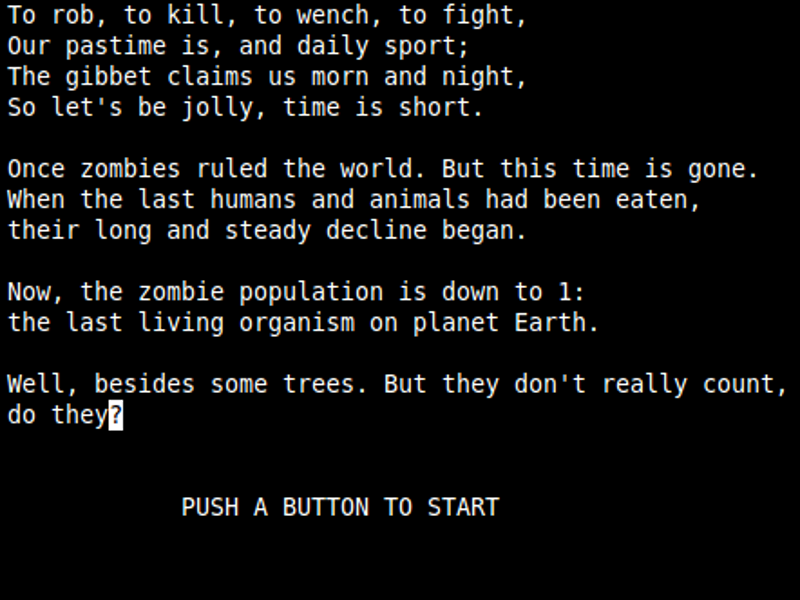
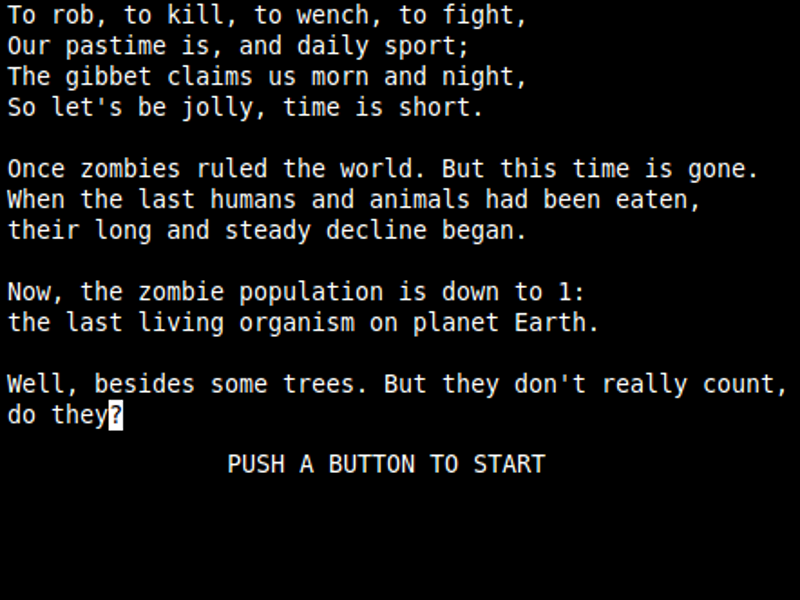
dialog

Changed region(s): [[0.2188, 0.75, 0.6875, 0.87]]

diff --git a/ld22.html b/ld22.html
@@ -42,6 +42,26 @@
 		var stary3;
 		var boom;
 		var gameover;
+		var dia1;
+		var dia2;
+var dia3;
+var dia4;
+var dia5;
+var dia6;
+var dia7;
+var dia8;
+var dia9;
+		var dia10;
+		var dia11;
+		var dia12;
+		var dia13;
+		var dia14;
+	var dia15;
+	var dia16;
+	var dia17;
+
+
+
 
 			function Engine(scene, layer){
 				this.scene = scene;
@@ -68,7 +88,7 @@
 				});
 				stone = this.mystone = this.scene.Sprite("stone.png",{
 					"layer": this.layer,
-					"x": 400, 	//X position of sprite
+					"x": 500, 	//X position of sprite
 					"y": 425, 	//Y position of sprite
 					"w": 150, 	//width of sprite.
 					"h": 150 	//height of sprite.
@@ -250,6 +270,142 @@
 					"w": 800, 	//width of sprite.
 					"h": 600 	//height of sprite.
 				});
+
+				dia1 = this.mydia1 = this.scene.Sprite("dia1.png",{
+					"layer": this.layer,
+					"x": 0, 	//X position of sprite
+					"y": 575, 	//Y position of sprite
+					"w": 800, 	//width of sprite.
+					"h": 25 	//height of sprite.
+				});
+
+				dia2 = this.mydia2 = this.scene.Sprite("dia2.png",{
+					"layer": this.layer,
+					"x": 3150, 	//X position of sprite
+					"y": 500, 	//Y position of sprite
+					"w": 58, 	//width of sprite.
+					"h": 31 	//height of sprite.
+				});
+
+				dia3 = this.mydia3 = this.scene.Sprite("dia3.png",{
+					"layer": this.layer,
+					"x": 3300, 	//X position of sprite
+					"y": 500, 	//Y position of sprite
+					"w": 58, 	//width of sprite.
+					"h": 31 	//height of sprite.
+				});
+
+				dia4 = this.mydia4 = this.scene.Sprite("dia4.png",{
+					"layer": this.layer,
+					"x": 4500, 	//X position of sprite
+					"y": 500, 	//Y position of sprite
+					"w": 58, 	//width of sprite.
+					"h": 31 	//height of sprite.
+				});
+
+				dia5 = this.mydia5 = this.scene.Sprite("dia5.png",{
+					"layer": this.layer,
+					"x": 4700, 	//X position of sprite
+					"y": 500, 	//Y position of sprite
+					"w": 58, 	//width of sprite.
+					"h": 31 	//height of sprite.
+				});
+
+				mine6 = this.mymine6 = this.scene.Sprite("tellermine.png",{
+					"layer": this.layer,
+					"x": 4900, 	//X position of sprite
+					"y": 500, 	//Y position of sprite
+					"w": 58, 	//width of sprite.
+					"h": 31 	//height of sprite.
+				});
+
+				mine7 = this.mymine7 = this.scene.Sprite("tellermine.png",{
+					"layer": this.layer,
+					"x": 7200, 	//X position of sprite
+					"y": 500, 	//Y position of sprite
+					"w": 58, 	//width of sprite.
+					"h": 31 	//height of sprite.
+				});
+
+				mine8 = this.mymine8 = this.scene.Sprite("tellermine.png",{
+					"layer": this.layer,
+					"x": 7260, 	//X position of sprite
+					"y": 500, 	//Y position of sprite
+					"w": 58, 	//width of sprite.
+					"h": 31 	//height of sprite.
+				});
+
+				mine9 = this.mymine9 = this.scene.Sprite("tellermine.png",{
+					"layer": this.layer,
+					"x": 7320, 	//X position of sprite
+					"y": 500, 	//Y position of sprite
+					"w": 58, 	//width of sprite.
+					"h": 31 	//height of sprite.
+				});
+
+				mine2 = this.mymine2 = this.scene.Sprite("tellermine.png",{
+					"layer": this.layer,
+					"x": 3150, 	//X position of sprite
+					"y": 500, 	//Y position of sprite
+					"w": 58, 	//width of sprite.
+					"h": 31 	//height of sprite.
+				});
+
+				mine3 = this.mymine3 = this.scene.Sprite("tellermine.png",{
+					"layer": this.layer,
+					"x": 3300, 	//X position of sprite
+					"y": 500, 	//Y position of sprite
+					"w": 58, 	//width of sprite.
+					"h": 31 	//height of sprite.
+				});
+
+				mine4 = this.mymine4 = this.scene.Sprite("tellermine.png",{
+					"layer": this.layer,
+					"x": 4500, 	//X position of sprite
+					"y": 500, 	//Y position of sprite
+					"w": 58, 	//width of sprite.
+					"h": 31 	//height of sprite.
+				});
+
+				mine5 = this.mymine5 = this.scene.Sprite("tellermine.png",{
+					"layer": this.layer,
+					"x": 4700, 	//X position of sprite
+					"y": 500, 	//Y position of sprite
+					"w": 58, 	//width of sprite.
+					"h": 31 	//height of sprite.
+				});
+
+				mine6 = this.mymine6 = this.scene.Sprite("tellermine.png",{
+					"layer": this.layer,
+					"x": 4900, 	//X position of sprite
+					"y": 500, 	//Y position of sprite
+					"w": 58, 	//width of sprite.
+					"h": 31 	//height of sprite.
+				});
+
+				mine7 = this.mymine7 = this.scene.Sprite("tellermine.png",{
+					"layer": this.layer,
+					"x": 7200, 	//X position of sprite
+					"y": 500, 	//Y position of sprite
+					"w": 58, 	//width of sprite.
+					"h": 31 	//height of sprite.
+				});
+
+				mine8 = this.mymine8 = this.scene.Sprite("tellermine.png",{
+					"layer": this.layer,
+					"x": 7260, 	//X position of sprite
+					"y": 500, 	//Y position of sprite
+					"w": 58, 	//width of sprite.
+					"h": 31 	//height of sprite.
+				});
+
+				mine9 = this.mymine9 = this.scene.Sprite("tellermine.png",{
+					"layer": this.layer,
+					"x": 7320, 	//X position of sprite
+					"y": 500, 	//Y position of sprite
+					"w": 58, 	//width of sprite.
+					"h": 31 	//height of sprite.
+				});
 				
 				
 				
@@ -338,7 +494,9 @@
 
 					rx = this.mygameover.x;
 					ry = this.mygameover.y;
-
+					
+					dx1 = this.mydia1.x;
+					dy1 = this.mydia1.y;
 
 					//Update on keyboard input
 					if(this.inputs.keyboard.left){
@@ -647,7 +805,11 @@
 
 					this.mygameover.position(rx,ry);
 					this.mygameover.offset(0,0);
-					this.mygameover.update();	
+					this.mygameover.update();
+
+					this.mydia1.position(dx1,dy1);
+					this.mydia1.offset(0,0);
+					this.mydia1.update();	
 
 
 					
